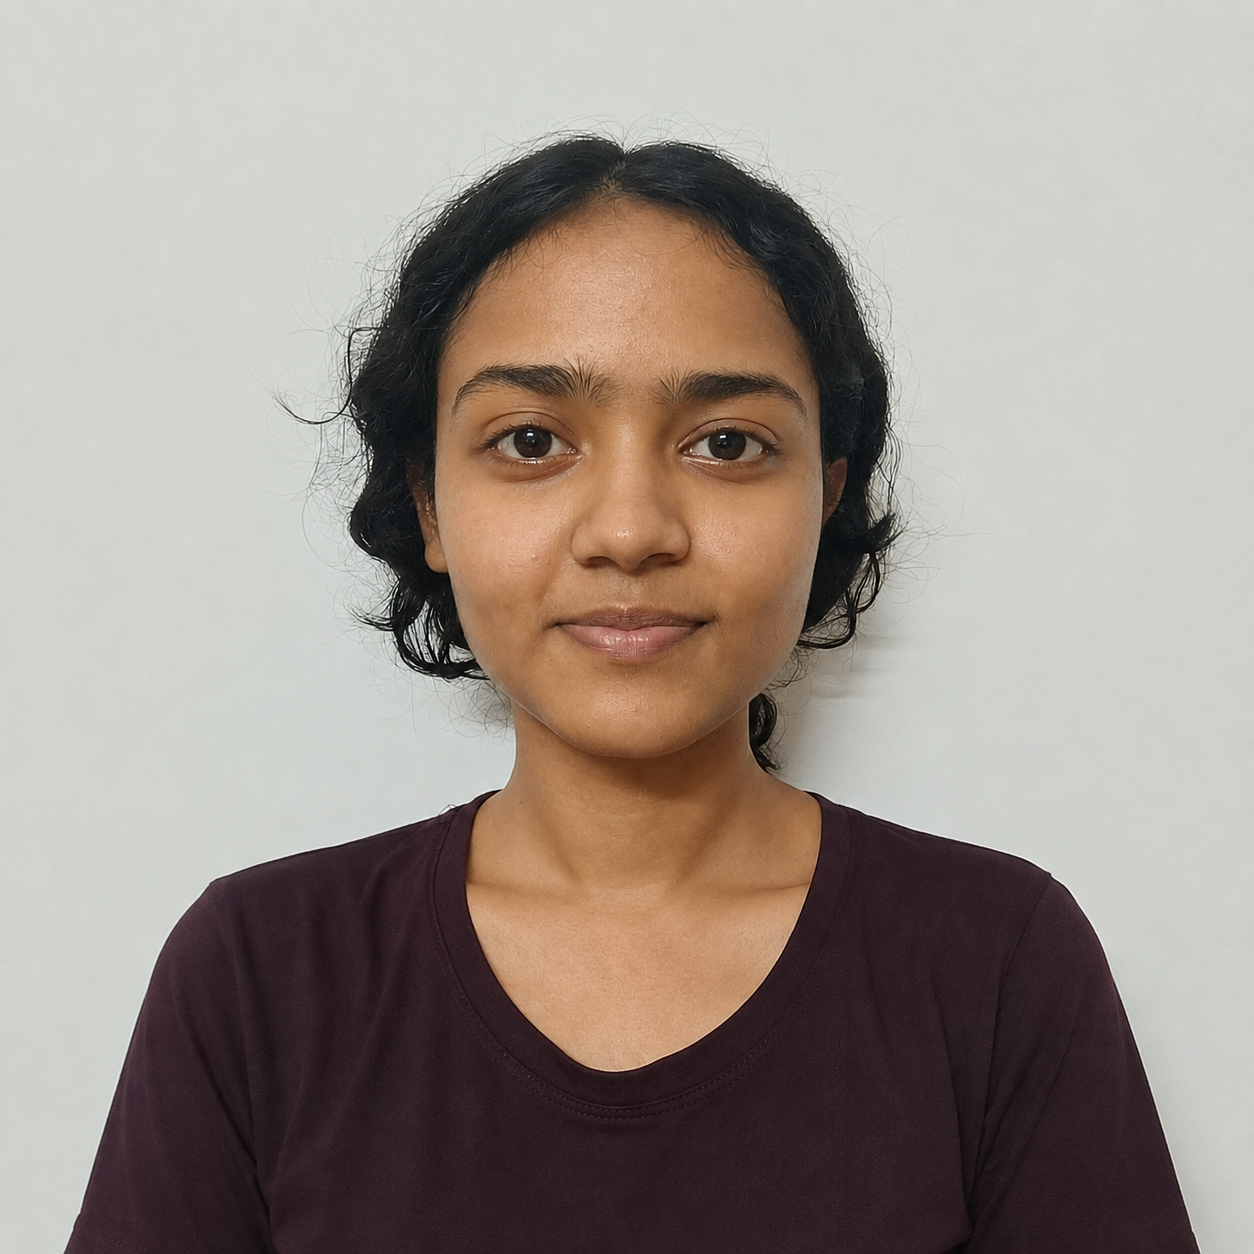
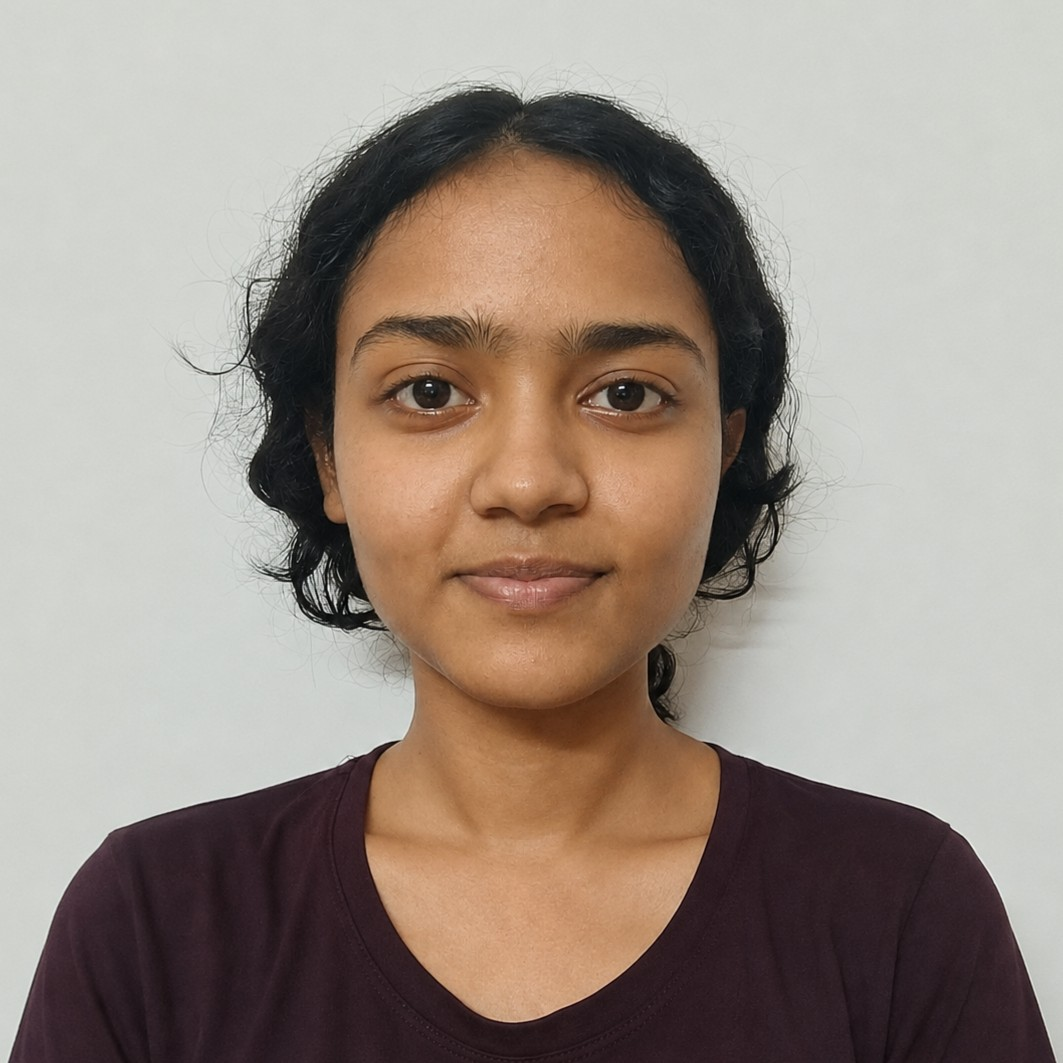
final touches

diff --git a/index.html b/index.html
@@ -706,6 +706,6 @@
         <p>&copy; 2024 Archana Yadav. All rights reserved.</p>
     </footer>
 
-    <a href="design-showcase.html" class="design-toggle">← See All Designs</a>
+
 </body>
 </html>
